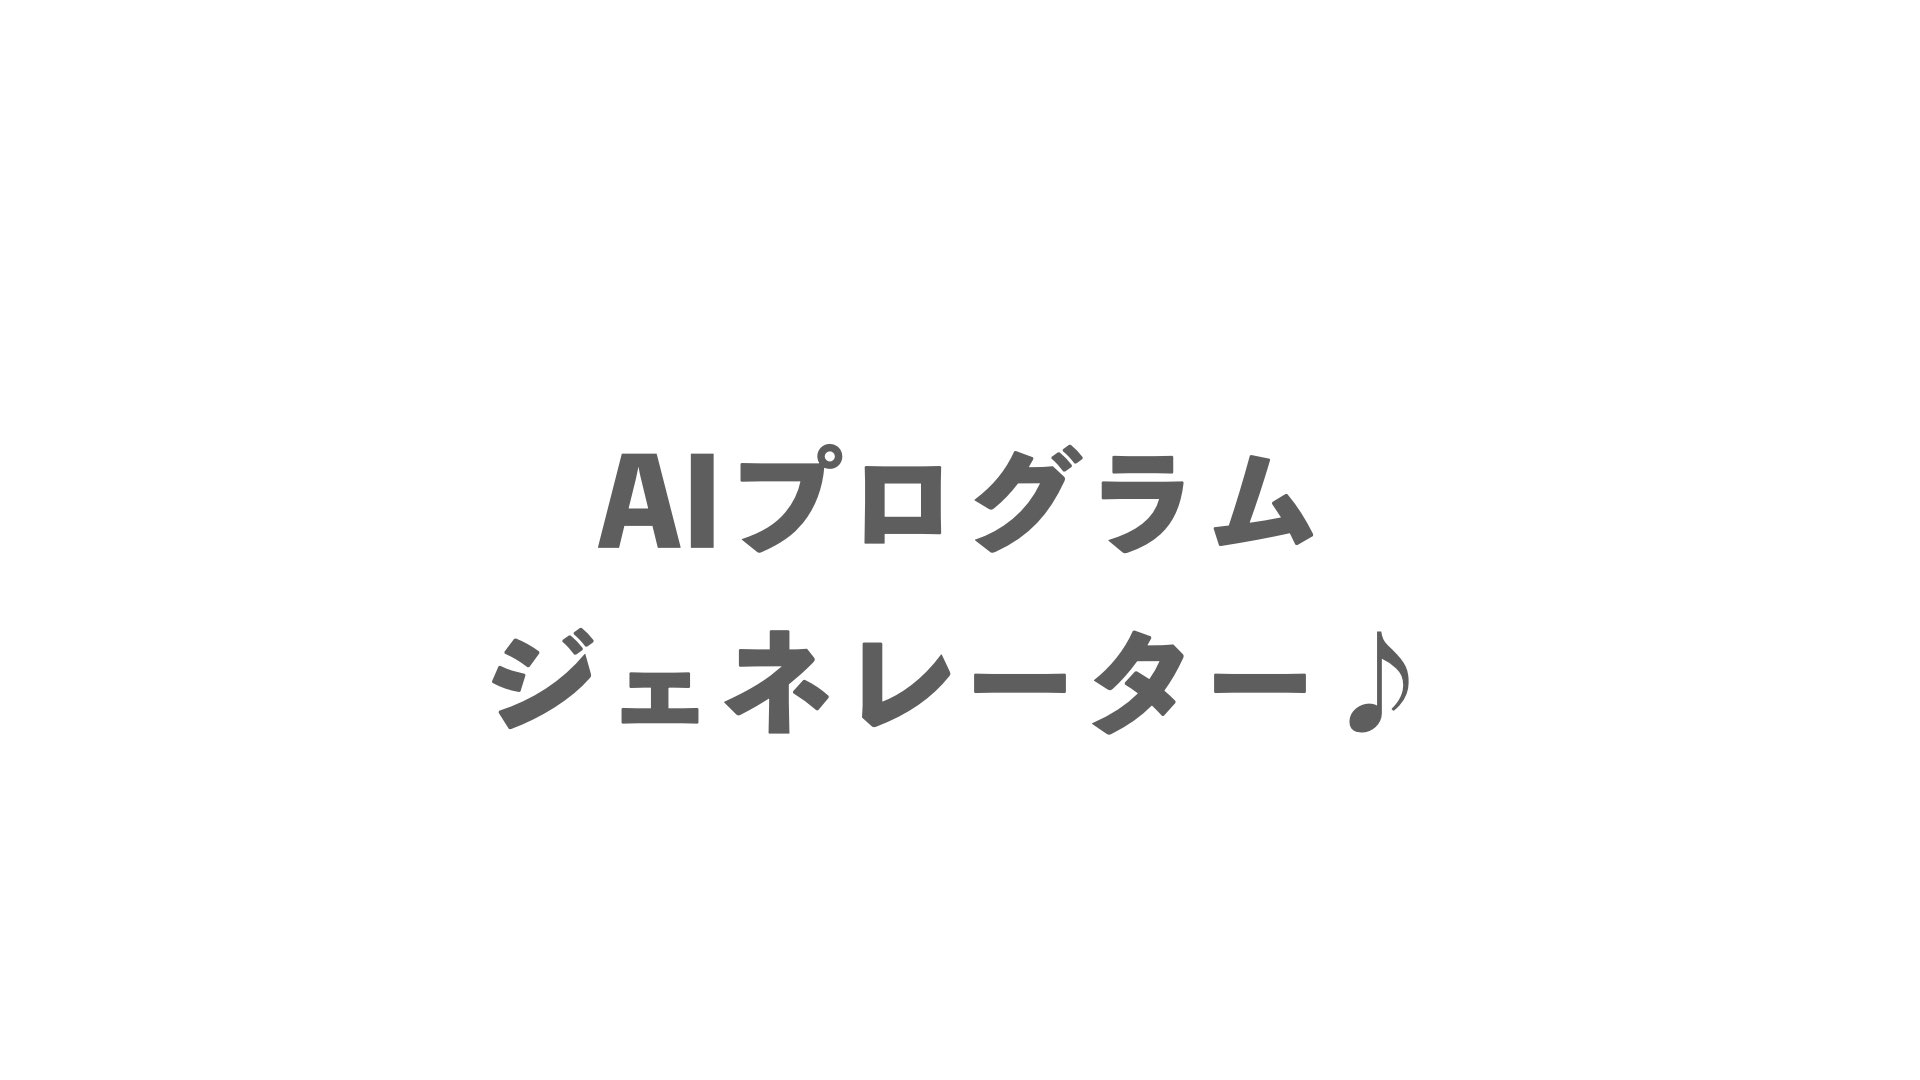
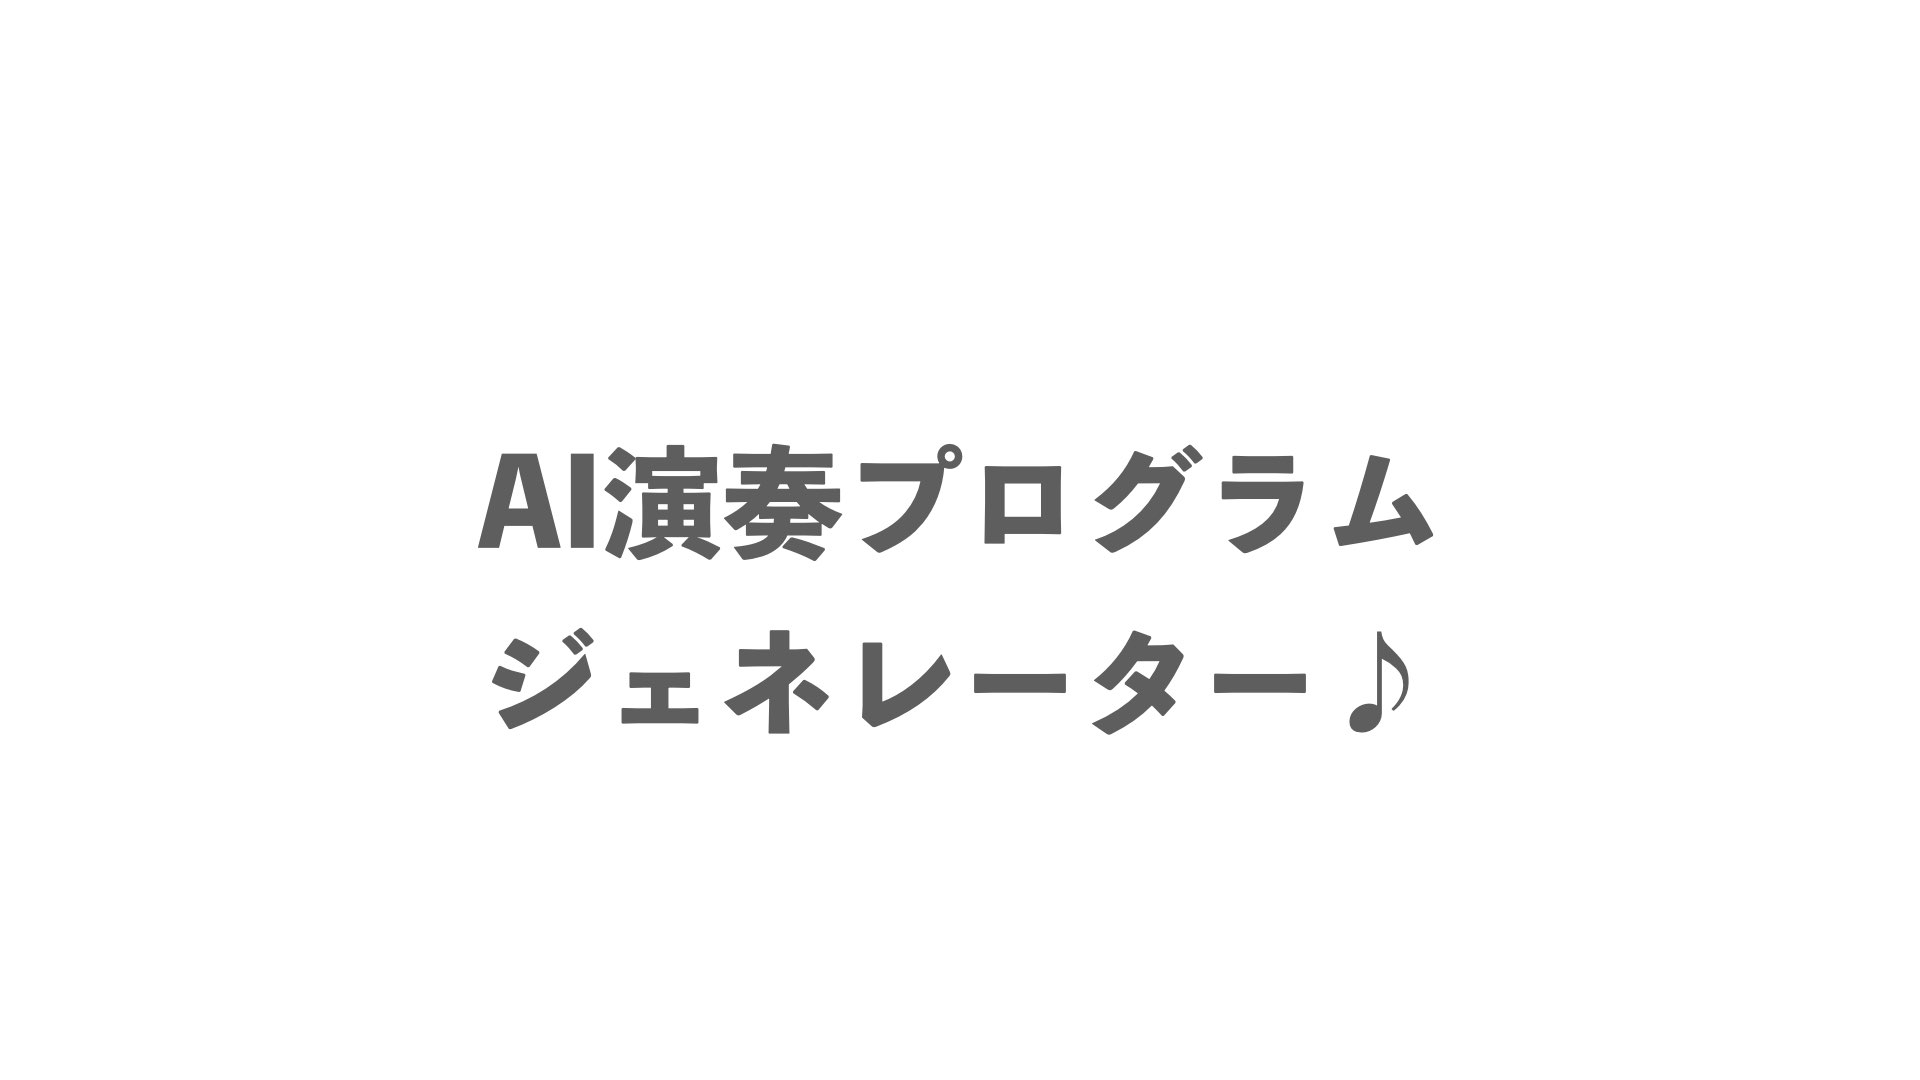
OGPの画像を差し替え

Changed region(s): [[0.25, 0.3972, 0.75, 0.5194]]

diff --git a/src/pages/api/generate.ts b/src/pages/api/generate.ts
@@ -13,9 +13,11 @@ export default async function handler(req: NextApiRequest) {
     model: "text-davinci-003",
     prompt: `You are ${searchParams.get(
       "instrument"
-    )} player. Think of 10 ${searchParams.get(
+    )} player. Think of 5 classical songs and 5 japanese songs, total 10 ${searchParams.get(
       "instrument"
-    )}  programs, 5 classic and 5 casual Japanese, total 10 songs. When you choose a piece, choose a piece that is meant to be played by just that instrument, not an orchestra or symphony. ${
+    )}  songs for your concert. You can suggest a mix of classical, contemporary, and popular pieces that would be enjoyable for a ${searchParams.get(
+      "instrument"
+    )} concert, not an orchestra or symphony. ${
       hasOption ? decodeURI(optionText ?? "") : ""
     } The title of the song is the tilt key, the author of the song is the author key, whether the song is casual or not is in boolean format with the key name of isCasual, top level key is songList and finally the 10 song objects are arranged in json format.you do not include text contents.only one object.`,
     temperature: 0.7,
